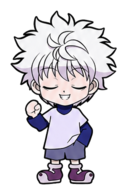
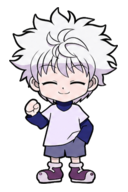
Use new Killua idle and float sprites

Changed region(s): [[0.0625, 0.0312, 0.9375, 0.9688]]

diff --git a/src/components/AiAssistant.tsx b/src/components/AiAssistant.tsx
@@ -3,6 +3,7 @@ import { useEffect, useMemo, useRef, useState } from 'react'
 import { AnimatePresence, motion } from 'framer-motion'
 import killuaIdleOpen from '../assets/killua-ai/killua-idle-still.png'
 import killuaIdleBlink from '../assets/killua-ai/killua-idle-blink.png'
+import killuaFloatSprite from '../assets/killua-ai/killua-float-stable.png'
 import killuaWalkSprite from '../assets/killua-ai/killua-walk-stable.png'
 import killuaDizzySprite from '../assets/killua-ai/killua-dizzy-stable.png'
 import './AiAssistant.css'
@@ -29,12 +30,13 @@ const DRAG_START_DISTANCE = 6
 const LAUNCHER_GRAVITY = 2200
 const LAUNCHER_WALK_SPEED = 70
 
-const AssistantMark = ({ compact = false, isDizzy = false, isWalking = false, walkDirection = 'right' }) => (
+const AssistantMark = ({ compact = false, isDizzy = false, isFloating = false, isWalking = false, walkDirection = 'right' }) => (
   <span
-    className={`ai-mark killua-ai-mark ${compact ? 'compact' : ''} ${isDizzy ? 'is-dizzy' : 'is-idle'} ${isWalking ? 'is-walking' : ''} ${walkDirection === 'left' ? 'is-walking-left' : ''}`}
+    className={`ai-mark killua-ai-mark ${compact ? 'compact' : ''} ${isDizzy ? 'is-dizzy' : 'is-idle'} ${isFloating ? 'is-floating' : ''} ${isWalking ? 'is-walking' : ''} ${walkDirection === 'left' ? 'is-walking-left' : ''}`}
     style={{
       '--killua-idle-open': `url(${killuaIdleOpen})`,
       '--killua-idle-blink': `url(${killuaIdleBlink})`,
+      '--killua-float-sheet': `url(${killuaFloatSprite})`,
       '--killua-walk-sheet': `url(${killuaWalkSprite})`,
       '--killua-dizzy-sheet': `url(${killuaDizzySprite})`
     }}
@@ -42,6 +44,7 @@ const AssistantMark = ({ compact = false, isDizzy = false, isWalking = false, wa
   >
     <span className="killua-sprite killua-sprite-idle" />
     <span className="killua-sprite killua-sprite-blink" />
+    <span className="killua-sprite killua-sprite-float" />
     <span className="killua-sprite killua-sprite-walk" />
     <span className="killua-sprite killua-sprite-dizzy" />
   </span>
@@ -606,7 +609,12 @@ const AiAssistant = () => {
         onPointerLeave={handleLauncherPointerLeave}
         aria-label="Open AI assistant"
       >
-        <AssistantMark isDizzy={isDizzy} isWalking={launcherPhase === 'walking'} walkDirection={walkDirection} />
+        <AssistantMark
+          isDizzy={isDizzy}
+          isFloating={launcherPhase === 'falling' || launcherOffset.y < -8}
+          isWalking={launcherPhase === 'walking'}
+          walkDirection={walkDirection}
+        />
       </button>
     </div>
   )

diff --git a/src/components/AiAssistant.css b/src/components/AiAssistant.css
@@ -113,6 +113,13 @@
   animation: killuaBlink 3.4s steps(1, end) infinite;
 }
 
+.killua-sprite-float {
+  background-image: var(--killua-float-sheet);
+  background-size: 400% 100%;
+  background-position: 0% 0%;
+  opacity: 0;
+}
+
 .killua-sprite-walk {
   background-image: var(--killua-walk-sheet);
   background-size: 400% 100%;
@@ -147,6 +154,7 @@
 
 .ai-mark.is-dizzy .killua-sprite-idle,
 .ai-mark.is-dizzy .killua-sprite-blink,
+.ai-mark.is-dizzy .killua-sprite-float,
 .ai-mark.is-dizzy .killua-sprite-walk {
   opacity: 0;
   animation: none;
@@ -159,8 +167,24 @@
     killuaDizzySway 0.42s ease-in-out infinite alternate;
 }
 
+.ai-mark.is-floating:not(.is-dizzy):not(.is-walking) .killua-sprite-idle,
+.ai-mark.is-floating:not(.is-dizzy):not(.is-walking) .killua-sprite-blink,
+.ai-mark.is-floating:not(.is-dizzy):not(.is-walking) .killua-sprite-walk,
+.ai-mark.is-floating:not(.is-dizzy):not(.is-walking) .killua-sprite-dizzy {
+  opacity: 0;
+  animation: none;
+}
+
+.ai-mark.is-floating:not(.is-dizzy):not(.is-walking) .killua-sprite-float {
+  opacity: 1;
+  animation:
+    killuaFloatFrames 1.12s steps(1, end) infinite,
+    killuaFloatBob 0.72s ease-in-out infinite alternate;
+}
+
 .ai-mark.is-walking:not(.is-dizzy) .killua-sprite-idle,
 .ai-mark.is-walking:not(.is-dizzy) .killua-sprite-blink,
+.ai-mark.is-walking:not(.is-dizzy) .killua-sprite-float,
 .ai-mark.is-walking:not(.is-dizzy) .killua-sprite-dizzy {
   opacity: 0;
   animation: none;
@@ -190,6 +214,18 @@
 @keyframes killuaDizzySway {
   0% { transform: translate3d(-50%, 0, 0) rotate(-2deg); }
   100% { transform: translate3d(-50%, -1px, 0) rotate(2deg); }
+}
+
+@keyframes killuaFloatFrames {
+  0%, 24.99% { background-position: 0% 0%; }
+  25%, 49.99% { background-position: 33.333% 0%; }
+  50%, 74.99% { background-position: 66.667% 0%; }
+  75%, 100% { background-position: 100% 0%; }
+}
+
+@keyframes killuaFloatBob {
+  0% { transform: translate3d(-50%, 1px, 0); }
+  100% { transform: translate3d(-50%, -4px, 0); }
 }
 
 @keyframes killuaWalkFrames {
